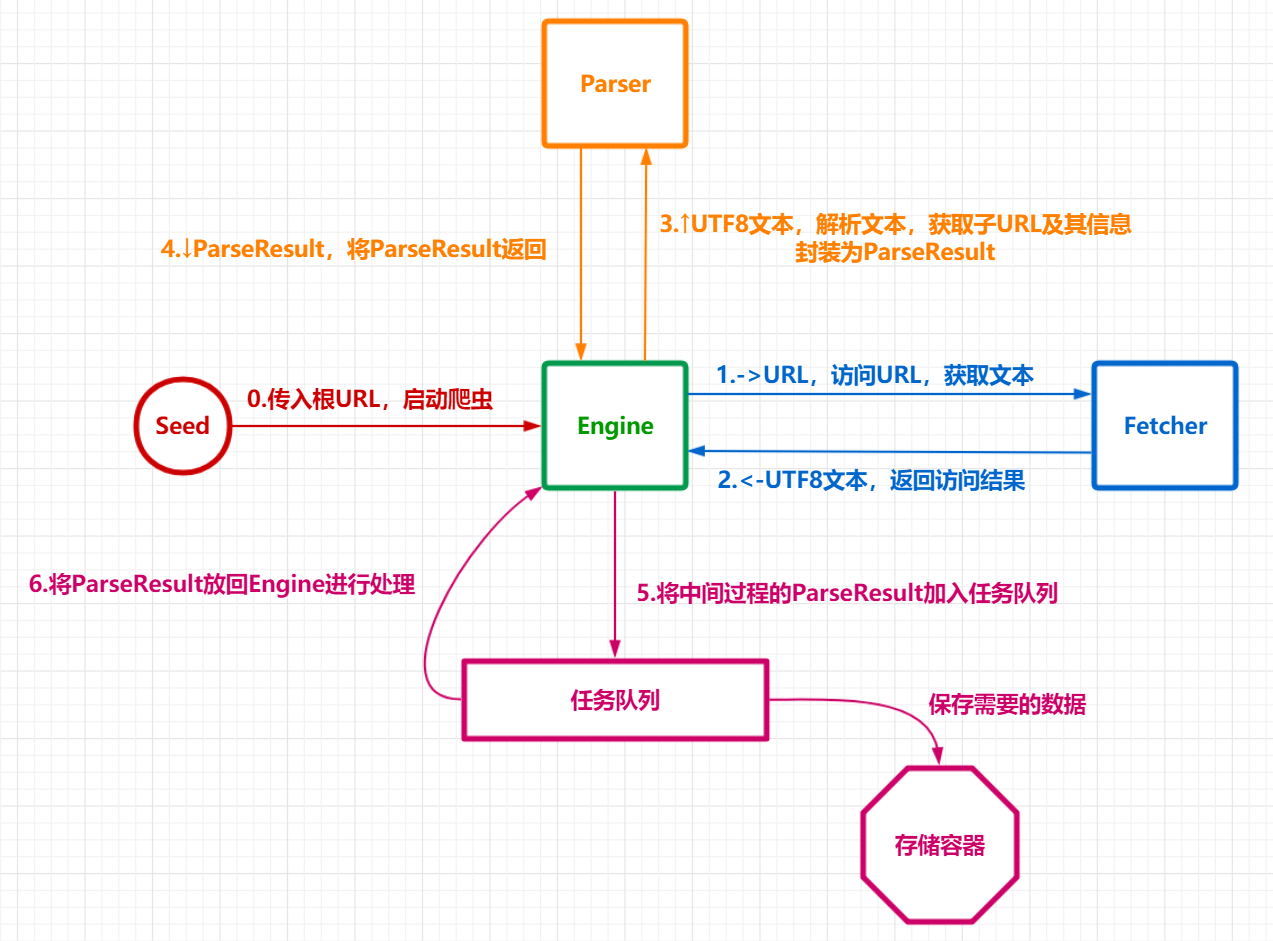
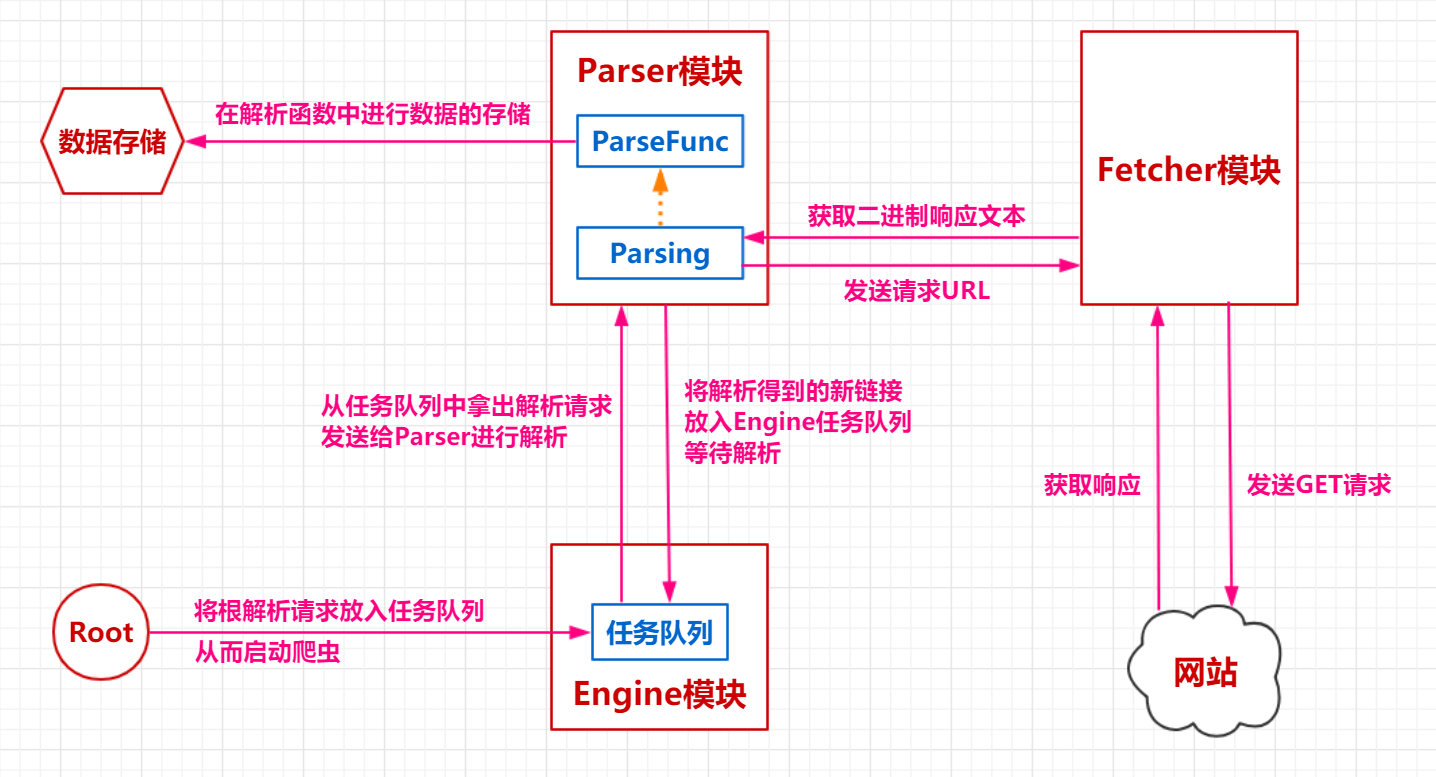
完成单机单任务版爬虫

diff --git a/README.md b/README.md
@@ -14,41 +14,23 @@
 
   ![](C:\Users\narli\Desktop\go-crawler\_images\爬取流程图.PNG)
 
-* 通过【城市列表解析器】爬取【城市列表】页面获取【城市链接】
-
-* 通过【城市解析器】爬取【城市链接】对应页面获取【用户链接】
-
-* 通过【用户解析器】爬取【用户链接】对应页面获取【用户信息】
+  1. 通过【城市列表解析器】爬取【城市列表】页面获取【城市链接】
+  2. 通过【城市解析器】爬取【城市链接】对应页面获取【用户链接】
+  3. 通过【用户解析器】爬取【用户链接】对应页面获取【用户信息】
 
 #### Step 3：了解解析器 Parser
 
-* 输入：UTF8编码的文本
+* 输入：二进制UTF8编码的文本
 
-* 输出：ParseResult集合，每个ParseResult代表一个子URL及其解析器、对应信息
+* 输出：ParseRequest数组，每个ParseRequest包括要解析的URL和解析函数
 
+  ```go
+  type ParseRequest struct {
+  	URL       string
+  	ParseFunc func([]byte) []ParseRequest
+  }
   ```
-  ParseResult
-  |-- Info：页面下该子URL对应的信息
-  |-- Request
-     |-- URL：子URL
-     |-- Parser：该子URL对应的解析器
-  ```
 
-* 例子
-
-  ```bash
-  ParseResult
-  |-- Info：百度首页
-  |-- Request
-     |-- URL：https://www.baidu.com
-     |-- Parser：parseFunc1
-     
-  ParseResult
-  |-- Info：谷歌首页
-  |-- Request
-     |-- URL：https://www.google.com
-     |-- Parser：parseFunc2
-  ```
 
 #### Step 4：了解单机单线程版爬虫系统架构
 
@@ -56,9 +38,7 @@
 
 #### Step 5： 实现单机单线程版爬虫
 
-
-
-### $ 单机并发版爬虫
-
-#### Step 6：单机单线程版爬虫性能分析
+* engine模块
+* parser模块
+* fetch模块
 
